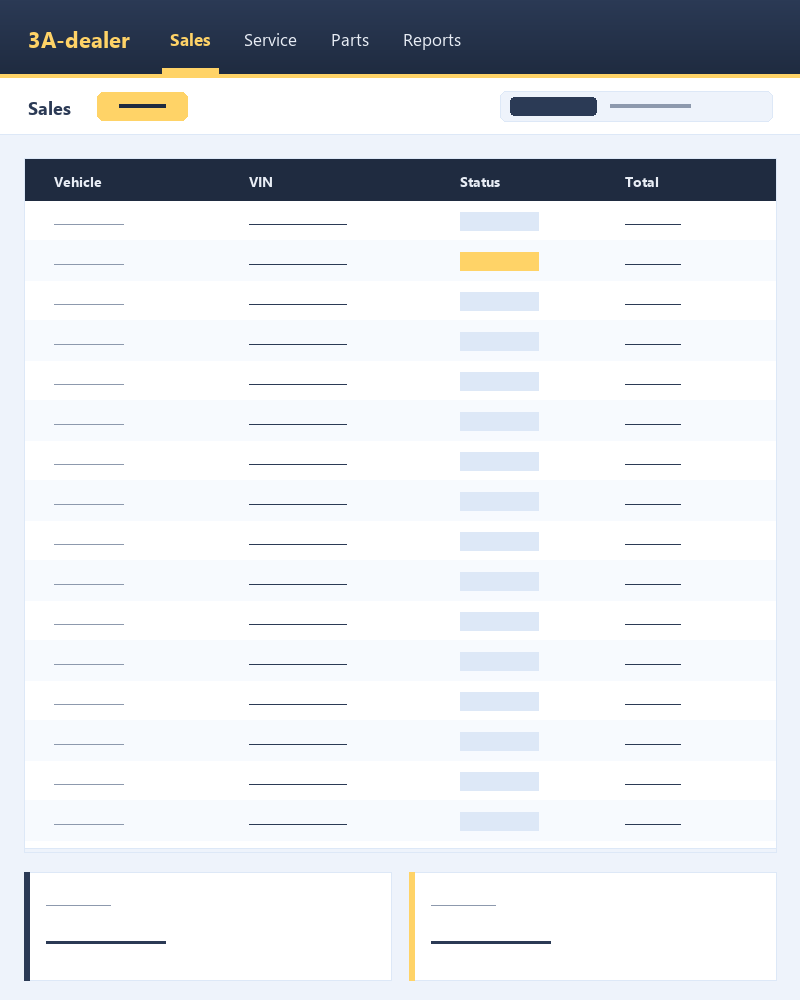
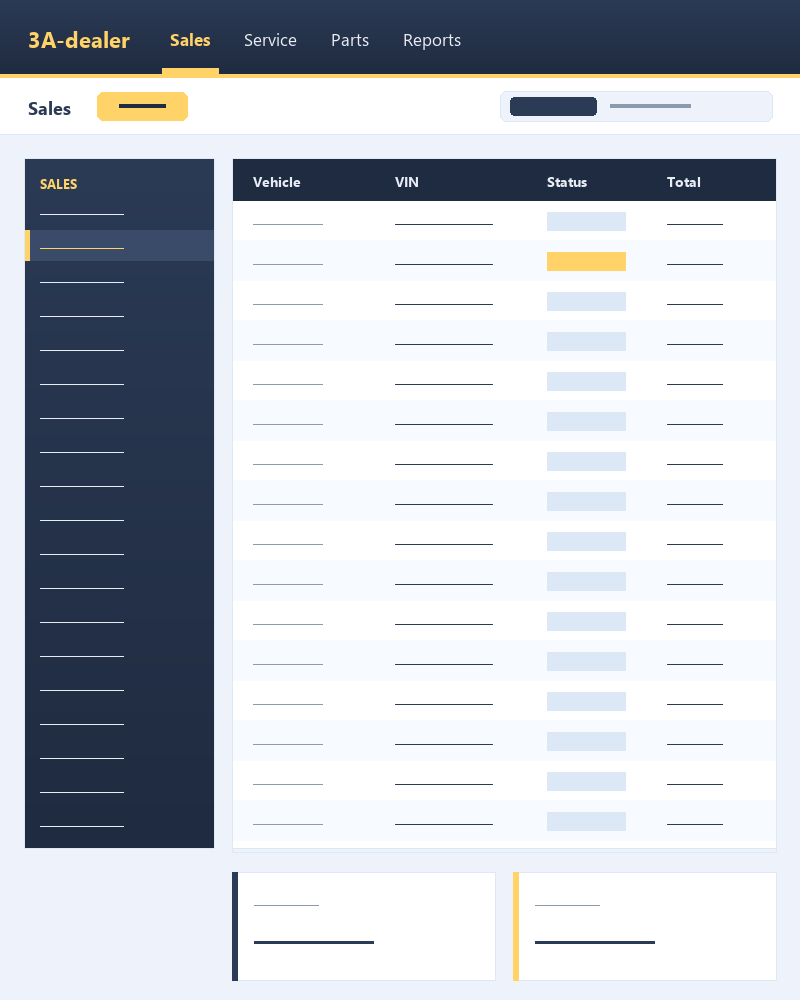
feat(тема): бічне меню (19.0.1.2.0)
Дерево меню поточного застосунку зліва, згортається одним кліком, працює в
БУДЬ-ЯКОМУ застосунку Odoo — тему купують окремо від модуля adealer, тож
покупець, який поставив саму тему, має отримати меню скрізь, а не лише в
чужому для нього застосунку 3A-dealer.

Фіча з'явилась не з плану, а з картки: на банері був сайдбар, а в темі його не
було (він живе в самому модулі adealer і лише всередині нього). Намалювати
сайдбар на картці означало б пообіцяти те, чого покупець не отримає, — тому
тема отримала фічу, а не картка обіцянку.

🔴 Захист від ДВОХ сайдбарів. У модуля adealer є власний, прив'язаний до його
застосунку й до прапорця в налаштуваннях; без захисту той, у кого стоїть і те,
і те, побачив би два однакових меню одне на одному. Темовий перевіряє той самий
прапорець сесії й мовчки поступається — дешевше й надійніше, ніж домовлятися
між модулями, і працює незалежно від того, що поставили першим.

Патерн узято з відлагодженого fop_theme (тема «Актива»), а не написано заново.

Дрібниця, яку прибрав одразу: назву застосунку тримаю в стані компонента, а не
читаю `getCurrentApp().name` у розмітці — сервіс може віддати null при переході
між застосунками, і шаблон упав би вже після того, як компонент вирішив
показатись.

Картку перемальовано: сайдбар на ній тепер темний, як у CSS, з акцентною
смужкою на обраному пункті.

Перевірено: node --check, XML parse, чиста установка окремо і разом з adealer.

diff --git a/adealer_theme/static/src/js/theme_sidebar.js b/adealer_theme/static/src/js/theme_sidebar.js
@@ -1,0 +1,136 @@
+/** @odoo-module **/
+// Бічне меню теми 3A-dealer.
+//
+// 🔴 Відмінність від сайдбара, що живе в самому додатку `adealer`: той
+// прив'язаний до одного застосунку (`APP_XMLID = "adealer.menu_root"`) і
+// вмикається окремим прапорцем. Цей — темовий, тобто працює в БУДЬ-ЯКОМУ
+// застосунку Odoo: тема продається окремо від додатка, і покупець, який поставив
+// саму тему, має отримати меню скрізь, а не в чужому для нього 3A-dealer.
+//
+// 🔴 Захист від ДВОХ сайдбарів. Якщо стоїть і додаток `adealer`, і його власний
+// сайдбар увімкнено, то всередині 3A-dealer було б два однакових меню одне на
+// одному. Тому темовий мовчки поступається: перевіряємо той самий прапорець
+// сесії, яким керується сайдбар додатка. Це дешевше й надійніше, ніж
+// домовлятися між модулями, і працює навіть якщо тему поставили першою.
+//
+// Патерн узято з уже відлагодженого `fop_theme` (тема «Актива»): розходитись
+// двом копіям того самого коду сенсу немає.
+
+import { Component, useState, onWillStart, onMounted, onWillUnmount } from "@odoo/owl";
+import { registry } from "@web/core/registry";
+import { useService } from "@web/core/utils/hooks";
+import { session } from "@web/session";
+
+// Застосунок, чий власний сайдбар має пріоритет над темовим.
+const OWNER_APP_XMLID = "adealer.menu_root";
+
+export class AdealerThemeSidebar extends Component {
+    static template = "adealer_theme.Sidebar";
+    static props = {};
+
+    setup() {
+        this.menuService = useService("menu");
+        this.state = useState({
+            enabled: true,
+            collapsed: false,
+            visible: false,
+            // Назва застосунку тримається в стані, а не читається з сервісу в
+            // шаблоні: `getCurrentApp()` може віддати null (перехід між
+            // застосунками, вихід на домашній екран), і `.name` у розмітці
+            // впав би вже після того, як компонент вирішив показатись.
+            appName: "",
+            groups: [],
+            expanded: {},
+        });
+        this._onAppChanged = () => { this._update(); this._syncTop(); };
+        this._onResize = () => this._syncTop();
+        onWillStart(() => this._update());
+        this.env.bus.addEventListener("MENUS:APP-CHANGED", this._onAppChanged);
+        onMounted(() => {
+            this._syncTop();
+            // Банер нейтралізації на демо-базі домальовується після монтування
+            // й зсуває навбар — переміряти на наступному кадрі.
+            requestAnimationFrame(() => this._syncTop());
+            window.addEventListener("resize", this._onResize);
+        });
+        onWillUnmount(() => {
+            this.env.bus.removeEventListener("MENUS:APP-CHANGED", this._onAppChanged);
+            window.removeEventListener("resize", this._onResize);
+            this._setBody(false, false);
+        });
+    }
+
+    // Верх сайдбара прив'язаний до РЕАЛЬНОГО низу навбара, а не до хардкоду
+    // 46px: на нейтралізованій демо-базі згори з'являється банер, що зсуває
+    // навбар, і сайдбар із фіксованим top накривав би верхнє меню.
+    _syncTop() {
+        try {
+            const nav = document.querySelector(".o_main_navbar");
+            const top = nav ? Math.round(nav.getBoundingClientRect().bottom) : 46;
+            document.documentElement.style.setProperty("--adt-sb-top", top + "px");
+        } catch (e) {
+            // no-op
+        }
+    }
+
+    _update() {
+        let visible = false;
+        let groups = [];
+        let appName = "";
+        try {
+            const app = this.menuService.getCurrentApp();
+            if (app) {
+                appName = app.name || "";
+                // Поступаємось власному сайдбару додатка 3A-dealer.
+                const ownerHasItsOwn = app.xmlid === OWNER_APP_XMLID
+                    && !!session.adealer_sidebar_enabled;
+                if (!ownerHasItsOwn) {
+                    const tree = this.menuService.getMenuAsTree(app.id);
+                    groups = (tree && tree.childrenTree) || [];
+                    // Показуємо лише там, де є що показати: застосунок без
+                    // підменю дав би порожню смугу, яка з'їдає ширину екрана.
+                    visible = groups.length > 0;
+                }
+            }
+        } catch (e) {
+            visible = false;
+            groups = [];
+            appName = "";
+        }
+        this.state.visible = visible;
+        this.state.appName = appName;
+        this.state.groups = groups;
+        this._setBody(this.state.enabled && visible, this.state.collapsed);
+    }
+
+    isExpanded(id) {
+        return this.state.expanded[id] === true;
+    }
+
+    toggleGroup(id) {
+        this.state.expanded[id] = !this.isExpanded(id);
+    }
+
+    _setBody(hasSidebar, collapsed) {
+        try {
+            document.body.classList.toggle("adt-has-sidebar", !!hasSidebar);
+            document.body.classList.toggle("adt-sidebar-collapsed", !!collapsed);
+        } catch (e) {
+            // no-op
+        }
+    }
+
+    toggle() {
+        this.state.collapsed = !this.state.collapsed;
+        this._setBody(this.state.enabled && this.state.visible, this.state.collapsed);
+    }
+
+    onSelect(menu) {
+        if (menu) {
+            this.menuService.selectMenu(menu);
+        }
+    }
+}
+
+registry.category("main_components")
+    .add("adealer_theme.Sidebar", { Component: AdealerThemeSidebar });

diff --git a/adealer_theme/static/description/index.html b/adealer_theme/static/description/index.html
@@ -7,7 +7,7 @@
   <div class="oe_row oe_spaced">
     <h2 class="oe_slogan" style="color:#128a7a;">Navy &amp; gold theme for the Odoo backend</h2>
     <h3 class="oe_slogan">&#1060;&#1110;&#1088;&#1084;&#1086;&#1074;&#1072; navy &amp; gold &#1090;&#1077;&#1084;&#1072; &#1076;&#1083;&#1103; &#1073;&#1077;&#1082;&#1077;&#1085;&#1076;&#1091; Odoo</h3>
-    <p class="oe_mt32" style="text-align:center;color:#888;">Version 19.0.1.1.5 &middot; Odoo 19 &middot; pure CSS, no SCSS rebuild, no JS</p>
+    <p class="oe_mt32" style="text-align:center;color:#888;">Version 19.0.1.2.0 &middot; Odoo 19 &middot; pure CSS, no SCSS rebuild, no JS</p>
   </div>
 
   <div class="oe_row oe_spaced">
@@ -50,6 +50,11 @@
     <div class="oe_span12">
       <h3 class="oe_slogan" style="text-align:left;">What's new / &#1065;&#1086; &#1085;&#1086;&#1074;&#1086;&#1075;&#1086;</h3>
       <div style="border:2px solid #ffd367;border-radius:8px;padding:12px 16px;margin-bottom:10px;">
+        <b>19.0.1.2.0</b> &mdash; September 2026<br/>
+        <b>Menu sidebar</b>: the current app's menu tree on the left, collapsible, in any Odoo app. It stands down where the 3A-dealer module already draws its own, so nobody ends up with two. &mdash; <b>&#1041;&#1110;&#1095;&#1085;&#1077; &#1084;&#1077;&#1085;&#1102;</b>: &#1076;&#1077;&#1088;&#1077;&#1074;&#1086; &#1084;&#1077;&#1085;&#1102; &#1087;&#1086;&#1090;&#1086;&#1095;&#1085;&#1086;&#1075;&#1086; &#1079;&#1072;&#1089;&#1090;&#1086;&#1089;&#1091;&#1085;&#1082;&#1091; &#1079;&#1083;&#1110;&#1074;&#1072;, &#1079;&#1075;&#1086;&#1088;&#1090;&#1072;&#1108;&#1090;&#1100;&#1089;&#1103;, &#1091; &#1073;&#1091;&#1076;&#1100;-&#1103;&#1082;&#1086;&#1084;&#1091; &#1079;&#1072;&#1089;&#1090;&#1086;&#1089;&#1091;&#1085;&#1082;&#1091;. &#1044;&#1077; &#1084;&#1086;&#1076;&#1091;&#1083;&#1100; 3A-dealer &#1084;&#1072;&#1108; &#1089;&#1074;&#1110;&#1081; &#8212; &#1090;&#1077;&#1084;&#1072; &#1087;&#1086;&#1089;&#1090;&#1091;&#1087;&#1072;&#1108;&#1090;&#1100;&#1089;&#1103;, &#1097;&#1086;&#1073; &#1085;&#1077; &#1073;&#1091;&#1083;&#1086; &#1076;&#1074;&#1086;&#1093;.
+      </div>
+
+      <div style="border:1px solid #cfd9e8;border-radius:8px;padding:12px 16px;margin-bottom:10px;">
         <b>19.0.1.1.5</b> &mdash; September 2026<br/>
         Card picture: the listing had no image at all, the description page opened with a broken one, and the first replacement was landscape while a theme card is portrait. Now 800x1000, drawn from the theme's own colours. The summary says &quot;backend&quot; up front, because most cards in the Themes catalogue are website themes. &mdash; &#1050;&#1072;&#1088;&#1090;&#1080;&#1085;&#1082;&#1072; &#1082;&#1072;&#1088;&#1090;&#1082;&#1080;: &#1091; &#1082;&#1072;&#1090;&#1072;&#1083;&#1086;&#1079;&#1110; &#1111;&#1111; &#1085;&#1077; &#1073;&#1091;&#1083;&#1086; &#1079;&#1086;&#1074;&#1089;&#1110;&#1084;, &#1089;&#1090;&#1086;&#1088;&#1110;&#1085;&#1082;&#1072; &#1086;&#1087;&#1080;&#1089;&#1091; &#1074;&#1110;&#1076;&#1082;&#1088;&#1080;&#1074;&#1072;&#1083;&#1072;&#1089;&#1100; &#1073;&#1080;&#1090;&#1080;&#1084; &#1079;&#1086;&#1073;&#1088;&#1072;&#1078;&#1077;&#1085;&#1085;&#1103;&#1084;, &#1072; &#1087;&#1077;&#1088;&#1096;&#1072; &#1079;&#1072;&#1084;&#1110;&#1085;&#1072; &#1073;&#1091;&#1083;&#1072; &#1075;&#1086;&#1088;&#1080;&#1079;&#1086;&#1085;&#1090;&#1072;&#1083;&#1100;&#1085;&#1086;&#1102;, &#1090;&#1086;&#1076;&#1110; &#1103;&#1082; &#1082;&#1072;&#1088;&#1090;&#1082;&#1072; &#1090;&#1077;&#1084;&#1080; &#1074;&#1077;&#1088;&#1090;&#1080;&#1082;&#1072;&#1083;&#1100;&#1085;&#1072;. &#1058;&#1077;&#1087;&#1077;&#1088; 800x1000, &#1085;&#1072;&#1084;&#1072;&#1083;&#1100;&#1086;&#1074;&#1072;&#1085;&#1072; &#1079; &#1082;&#1086;&#1083;&#1100;&#1086;&#1088;&#1110;&#1074; &#1089;&#1072;&#1084;&#1086;&#1111; &#1090;&#1077;&#1084;&#1080;. &#1042; &#1086;&#1087;&#1080;&#1089;&#1110; &#1086;&#1076;&#1088;&#1072;&#1079;&#1091; &#1089;&#1082;&#1072;&#1079;&#1072;&#1085;&#1086; &quot;&#1073;&#1077;&#1082;&#1077;&#1085;&#1076;&quot;: &#1091; &#1082;&#1072;&#1090;&#1072;&#1083;&#1086;&#1079;&#1110; &#1090;&#1077;&#1084; &#1073;&#1110;&#1083;&#1100;&#1096;&#1110;&#1089;&#1090;&#1100; &#1082;&#1072;&#1088;&#1090;&#1086;&#1082; &mdash; &#1090;&#1077;&#1084;&#1080; &#1089;&#1072;&#1081;&#1090;&#1091;.
       </div>

diff --git a/adealer_theme/static/src/css/theme.css b/adealer_theme/static/src/css/theme.css
@@ -150,3 +150,53 @@
     border-color: #2b3a55;
     box-shadow: 0 0 0 1px #2b3a55;
 }
+
+/* ---------- Бічне меню ----------
+   Дерево меню поточного застосунку, згортається. Працює в будь-якому
+   застосунку: тему купують окремо від додатка 3A-dealer, і меню має бути
+   скрізь, а не лише в чужому для покупця застосунку.
+   Верх (--adt-sb-top) міряє JS від реального низу навбара: на нейтралізованій
+   демо-базі згори з'являється банер, який зсуває навбар, і сайдбар із
+   фіксованим top:46px накривав би верхнє меню. 46px — запас, якщо JS не встиг. */
+.adt-sidebar {
+    position: fixed; top: var(--adt-sb-top, 46px); left: 0; bottom: 0;
+    width: 220px;
+    background: linear-gradient(180deg, #2b3a55 0%, #1f2b40 100%);
+    color: #e8edf5;
+    z-index: 900; overflow-y: auto;
+    box-shadow: 2px 0 8px rgba(0, 0, 0, 0.12);
+    border-right: 1px solid rgba(255, 255, 255, 0.15);
+    transition: width 0.15s ease;
+}
+.adt-sidebar--collapsed { width: 44px; }
+.adt-sidebar__head {
+    display: flex; align-items: center; justify-content: space-between;
+    gap: 8px; padding: 10px;
+    border-bottom: 1px solid rgba(255, 255, 255, 0.15);
+    font-weight: 700; color: #ffd367;
+}
+.adt-sidebar__toggle {
+    background: transparent; border: none; color: #ffd367;
+    cursor: pointer; font-size: 16px; line-height: 1;
+}
+.adt-sidebar__group-title, .adt-sidebar__subgroup-title {
+    display: flex; align-items: center; gap: 6px; padding: 8px 10px;
+    cursor: pointer; font-weight: 700; color: #ffffff; user-select: none;
+}
+.adt-sidebar__subgroup-title { padding-left: 18px; font-weight: 600; font-size: 0.94em; }
+.adt-sidebar__group-title:hover, .adt-sidebar__subgroup-title:hover {
+    background: rgba(255, 255, 255, 0.10);
+}
+.adt-sidebar__caret { width: 12px; color: #ffd367; }
+.adt-sidebar__item {
+    padding: 7px 10px 7px 26px; cursor: pointer;
+    border-left: 3px solid transparent; color: #e8edf5; font-size: 0.94em;
+}
+.adt-sidebar__items--nested .adt-sidebar__item { padding-left: 36px; }
+.adt-sidebar__item:hover {
+    background: rgba(255, 255, 255, 0.10);
+    border-left-color: #ffd367;
+    color: #ffd367; font-weight: 600;
+}
+body.adt-has-sidebar .o_action_manager { margin-left: 220px; }
+body.adt-has-sidebar.adt-sidebar-collapsed .o_action_manager { margin-left: 44px; }

diff --git a/adealer_theme/__manifest__.py b/adealer_theme/__manifest__.py
@@ -4,11 +4,14 @@
     # Слово «бекенд» — першим. У каталозі тем більшість карток — теми САЙТУ, і
     # покупець за звичкою читає нашу так само. Сказати це прямо коштує двох
     # слів; дізнатися після встановлення — повернення й одна зірка.
-    'summary': "Odoo backend theme: navy & gold across the back office. "
-               "Тема бекенду Odoo: navy + gold",
+    'summary': "Odoo backend theme: navy & gold, with a collapsible menu "
+               "sidebar. Тема бекенду Odoo: navy + gold і бічне меню",
     'description': """
         Тема бекенду Odoo у стилі додатку 3A-dealer:
         верхня панель, меню, кнопки, списки, вкладки, чекбокси.
+
+        Бічне меню: дерево меню поточного застосунку зліва, згортається
+        одним кліком. Працює в будь-якому застосунку Odoo.
 
         Встановлюється/видаляється окремо від модуля adealer.
     """,
@@ -17,7 +20,7 @@
     'website': "https://aktiv.in.ua/dodatky/",
     'license': "LGPL-3",
     'category': 'Themes/Backend',
-    'version': '19.0.1.1.5',
+    'version': '19.0.1.2.0',
     # 🔴 Перша картинка — це картка в каталозі. Без ключа `images` картка
     # виходить сірим прямокутником поруч із рештою лінійки, а `index.html` уже
     # посилався на banner.png, якого не було, — тобто сторінка опису
@@ -34,6 +37,8 @@
     'assets': {
         'web.assets_backend': [
             'adealer_theme/static/src/css/theme.css',
+            'adealer_theme/static/src/js/theme_sidebar.js',
+            'adealer_theme/static/src/xml/theme_sidebar.xml',
         ],
     },
     'installable': True,

diff --git a/adealer_theme/CHANGELOG.md b/adealer_theme/CHANGELOG.md
@@ -3,6 +3,25 @@
 Navy & gold backend theme for Odoo. Newest on top.
 Тема оформлення бекенду. Найновіше — зверху.
 
+## 19.0.1.2.0 — 2026-09-05
+
+### Added
+
+- **Menu sidebar.** The current app's menu tree on the left, collapsible with
+  one click, in **any** Odoo app — the theme is bought separately from the
+  3A-dealer module, so a buyer who installed only the theme should get the menu
+  everywhere, not just inside an app they may not own.
+
+  It came from the card, not from a plan: the store picture showed a sidebar
+  and the theme had none. Drawing one anyway would have promised something the
+  buyer does not get, so the theme grew the feature instead.
+
+  🔴 **It stands down where the 3A-dealer module already draws its own.** That
+  module has an app-scoped sidebar behind a setting; without the guard, anyone
+  with both installed would see two identical menus stacked on each other. The
+  theme checks the same session flag and yields — cheaper and more reliable
+  than two modules negotiating, and it works whichever was installed first.
+
 ## 19.0.1.1.5 — 2026-09-05
 
 ### Fixed
